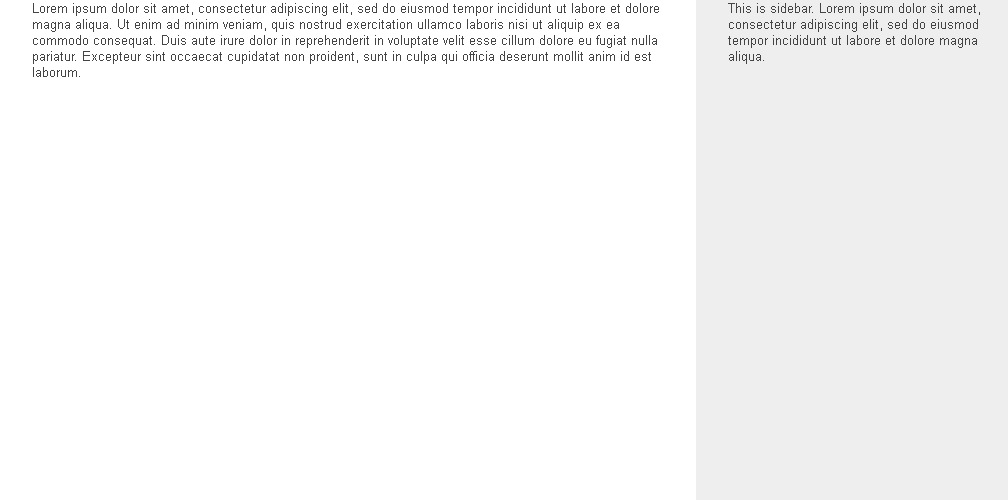
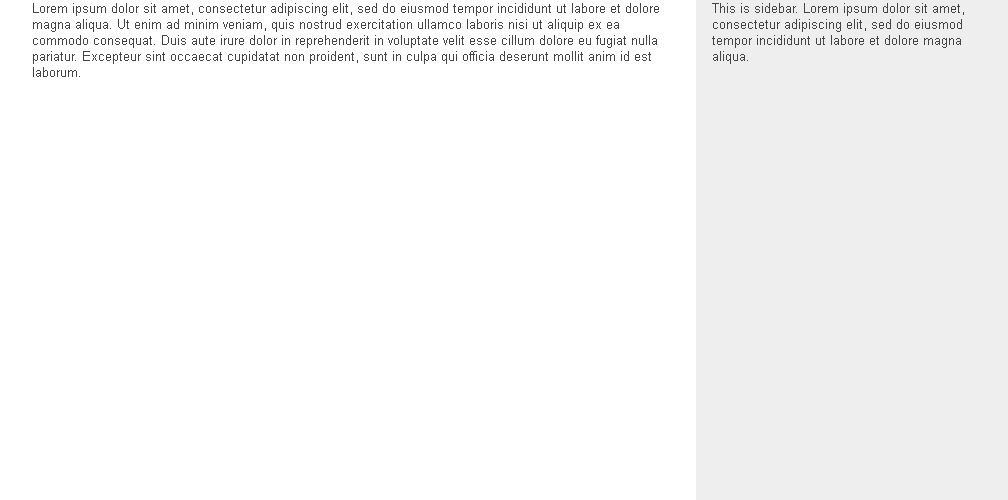
RG-1123 proper spacing for right-side sidebar
Former-commit-id: 3a7844e6d54b5859eb9656b461ef6b95cd6b5290

Changed region(s): [[0.7073, 0.0, 0.9841, 0.12]]

diff --git a/components/content-layout/content-layout.css b/components/content-layout/content-layout.css
@@ -20,6 +20,10 @@
     padding-left: calc(unit * 4);
     padding-right: calc(unit * 2);
   }
+  .sidebarRight {
+    padding-left: calc(unit * 2);
+    padding-right: calc(unit * 4);
+  }
 }
 
 @media (max-width: 960px) {
